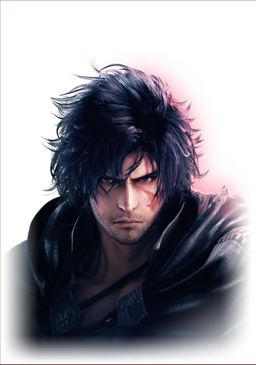
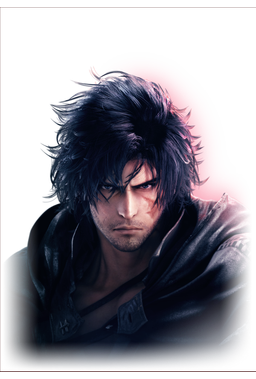
full guides

diff --git a/src/components/landing/CharacterCard.tsx b/src/components/landing/CharacterCard.tsx
@@ -9,6 +9,9 @@ interface CharacterCardProps {
   image?: string
   accentColor?: string
   isAvailable?: boolean
+  imagePosition?: string
+  imageScale?: number
+  imageTranslateY?: string
 }
 
 export function CharacterCard({
@@ -18,6 +21,9 @@ export function CharacterCard({
   image,
   accentColor,
   isAvailable = true,
+  imagePosition,
+  imageScale,
+  imageTranslateY,
 }: CharacterCardProps) {
   const cardStyle = accentColor
     ? { '--card-accent': accentColor } as React.CSSProperties
@@ -26,6 +32,13 @@ export function CharacterCard({
   // Get responsive image sources - use 512 for higher quality with fewer guides
   const imageSrc = image || getCharacterImageUrl(slug, 512)
   const imageSrcSet = getCharacterImageSrcSet(slug)
+
+  // Build custom image styles for non-standard character images
+  const imageStyle: React.CSSProperties & { '--image-scale'?: number; '--image-translate-y'?: string } = {
+    ...(imagePosition && { objectPosition: imagePosition }),
+    ...(imageScale && { '--image-scale': imageScale }),
+    ...(imageTranslateY && { '--image-translate-y': imageTranslateY }),
+  }
 
   const cardContent = (
     <>
@@ -38,6 +51,7 @@ export function CharacterCard({
               sizes="(max-width: 480px) 40vw, (max-width: 768px) 30vw, 200px"
               alt={name} 
               className={styles.image}
+              style={Object.keys(imageStyle).length > 0 ? imageStyle : undefined}
               loading="lazy"
               decoding="async"
             />

diff --git a/src/pages/CharacterLanding.tsx b/src/pages/CharacterLanding.tsx
@@ -3,18 +3,27 @@ import { characters } from '../characters'
 import { getCharacterImageUrl } from '../utils/character-images'
 import styles from './CharacterLanding.module.css'
 
+// Custom image adjustments for characters with non-standard image layouts
+const IMAGE_OVERRIDES: Record<string, { position?: string; scale?: number; translateY?: string }> = {
+  'fahkumram': { position: 'left center', translateY: '20%' },
+}
+
 export function CharacterLanding() {
-  // Only show characters that have actual guides
-  // Use higher resolution images since there are fewer guides
   const availableCharacters = Object.values(characters)
-    .map(char => ({
-      slug: char.slug,
-      name: char.name,
-      icon: char.icon,
-      image: getCharacterImageUrl(char.slug, 512),
-      accentColor: char.theme.colors?.accent,
-      isAvailable: true,
-    }))
+    .map(char => {
+      const overrides = IMAGE_OVERRIDES[char.slug]
+      return {
+        slug: char.slug,
+        name: char.name,
+        icon: char.icon,
+        image: getCharacterImageUrl(char.slug, 512),
+        accentColor: char.theme.colors?.accent,
+        isAvailable: true,
+        imagePosition: overrides?.position,
+        imageScale: overrides?.scale,
+        imageTranslateY: overrides?.translateY,
+      }
+    })
     .sort((a, b) => a.name.localeCompare(b.name))
 
   return (

diff --git a/src/components/landing/CharacterCard.module.css b/src/components/landing/CharacterCard.module.css
@@ -9,6 +9,9 @@
   cursor: pointer;
   border-radius: 10px;
   padding: 5px;
+  width: 100%;
+  min-height: 0;
+  flex: 1 1 auto;
   background: linear-gradient(
     180deg,
     rgba(255, 255, 255, 0.03) 0%,
@@ -33,6 +36,8 @@
   position: relative;
   width: 100%;
   aspect-ratio: 3 / 4;
+  min-height: 0;
+  flex-shrink: 0;
   border-radius: 8px;
   overflow: visible;
 }
@@ -41,6 +46,7 @@
   position: relative;
   width: 100%;
   height: 100%;
+  min-height: 0;
   border-radius: 8px;
   overflow: hidden;
   background: linear-gradient(
@@ -58,11 +64,12 @@
   object-position: top center;
   transition: transform 0.5s cubic-bezier(0.16, 1, 0.3, 1);
   filter: brightness(0.95) contrast(1.05);
+  transform: scale(var(--image-scale, 1)) translateY(var(--image-translate-y, 0));
 }
 
 .card:hover .image {
-  transform: scale(1.08);
   filter: brightness(1) contrast(1.1);
+  transform: scale(calc(var(--image-scale, 1) * 1.08)) translateY(var(--image-translate-y, 0));
 }
 
 /* Glow effect behind image */
@@ -168,7 +175,7 @@
 }
 
 .unavailable:hover .image {
-  transform: none;
+  transform: scale(var(--image-scale, 1)) translateY(var(--image-translate-y, 0));
   filter: brightness(0.95) contrast(1.05);
 }
 

diff --git a/src/assets/character-images.ts b/src/assets/character-images.ts
@@ -15,6 +15,19 @@ export const characterImages = {
     ],
     "basePath": "/characters/alisa-bosconovitch"
   },
+  "armor-king": {
+    "sizes": [
+      128,
+      256,
+      512,
+      1024
+    ],
+    "formats": [
+      "webp",
+      "png"
+    ],
+    "basePath": "/characters/armor-king"
+  },
   "asuka-kazama": {
     "sizes": [
       128,
@@ -105,6 +118,19 @@ export const characterImages = {
       "png"
     ],
     "basePath": "/characters/eddy-gordo"
+  },
+  "fahkumram": {
+    "sizes": [
+      128,
+      256,
+      512,
+      1024
+    ],
+    "formats": [
+      "webp",
+      "png"
+    ],
+    "basePath": "/characters/fahkumram"
   },
   "feng-wei": {
     "sizes": [

diff --git a/src/utils/character-images.ts b/src/utils/character-images.ts
@@ -17,6 +17,7 @@ const slugToImageFolder: Record<string, string> = {
   'devil-jin': 'devil-jin',
   'dragunov': 'sergei-dragunov',
   'eddy': 'eddy-gordo',
+  'fahkumram': 'fahkumram',
   'feng': 'feng-wei',
   'heihachi': 'heihachi-mishima',
   'hwoarang': 'hwoarang',

diff --git a/src/components/landing/CharacterGrid.tsx b/src/components/landing/CharacterGrid.tsx
@@ -8,6 +8,9 @@ interface Character {
   image?: string
   accentColor?: string
   isAvailable?: boolean
+  imagePosition?: string
+  imageScale?: number
+  imageTranslateY?: string
 }
 
 interface CharacterGridProps {

diff --git a/src/components/landing/CharacterGrid.module.css b/src/components/landing/CharacterGrid.module.css
@@ -15,6 +15,8 @@
   animation-delay: var(--delay, 0s);
   opacity: 0;
   width: 160px;
+  display: flex;
+  flex-direction: column;
 }
 
 @keyframes cardFadeIn {
